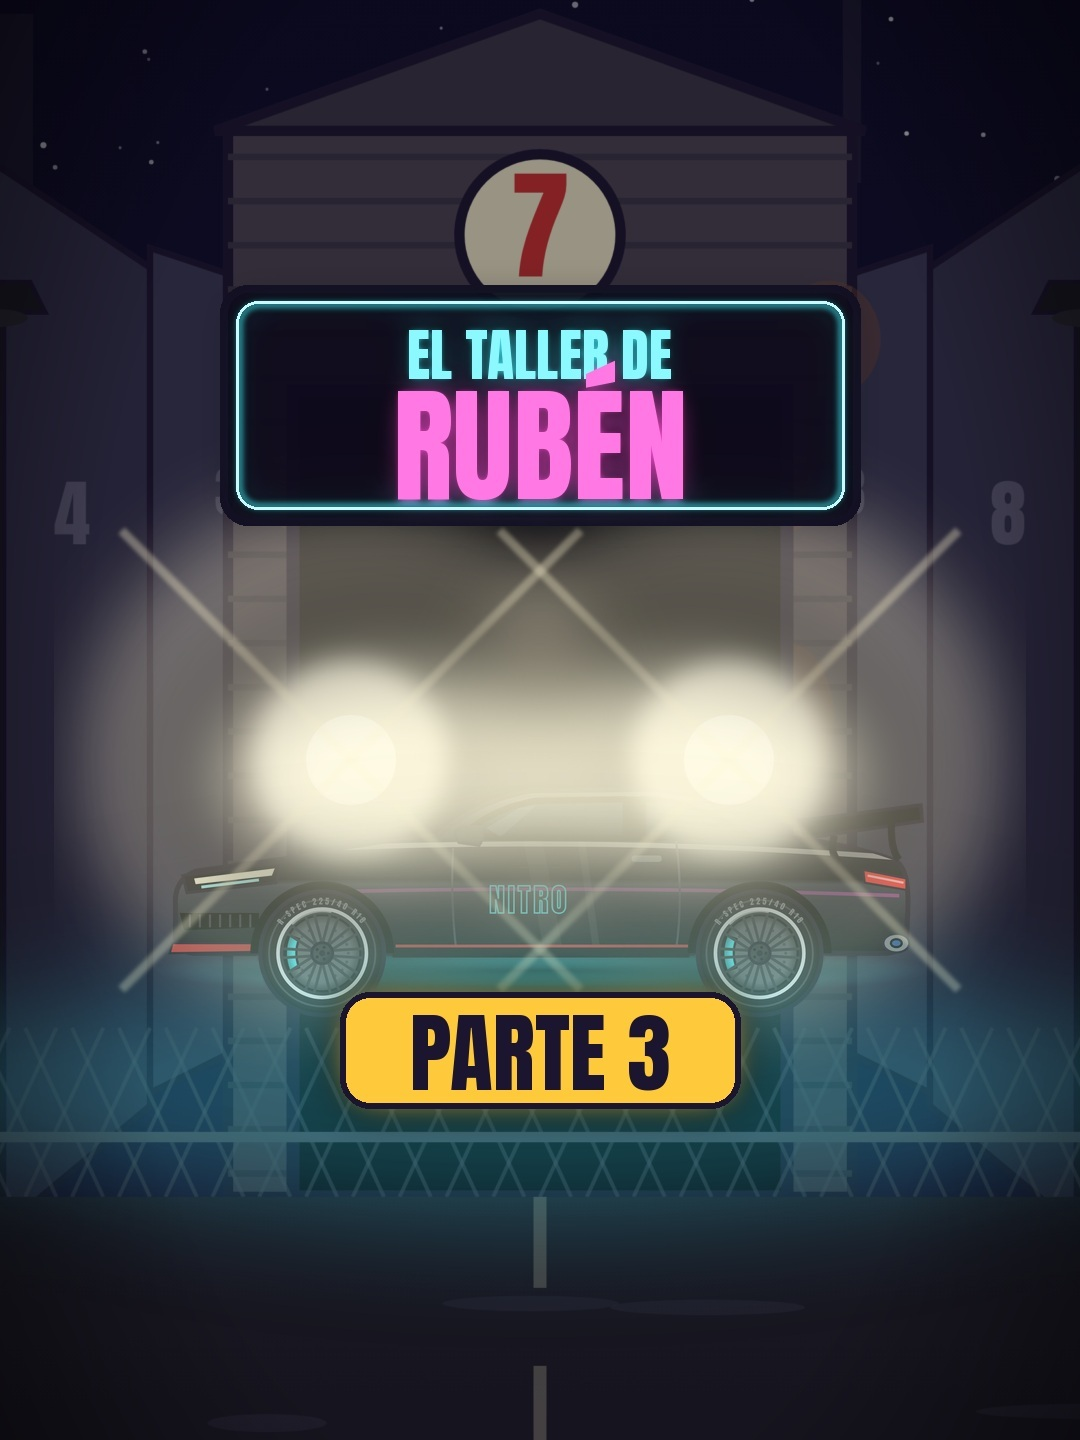
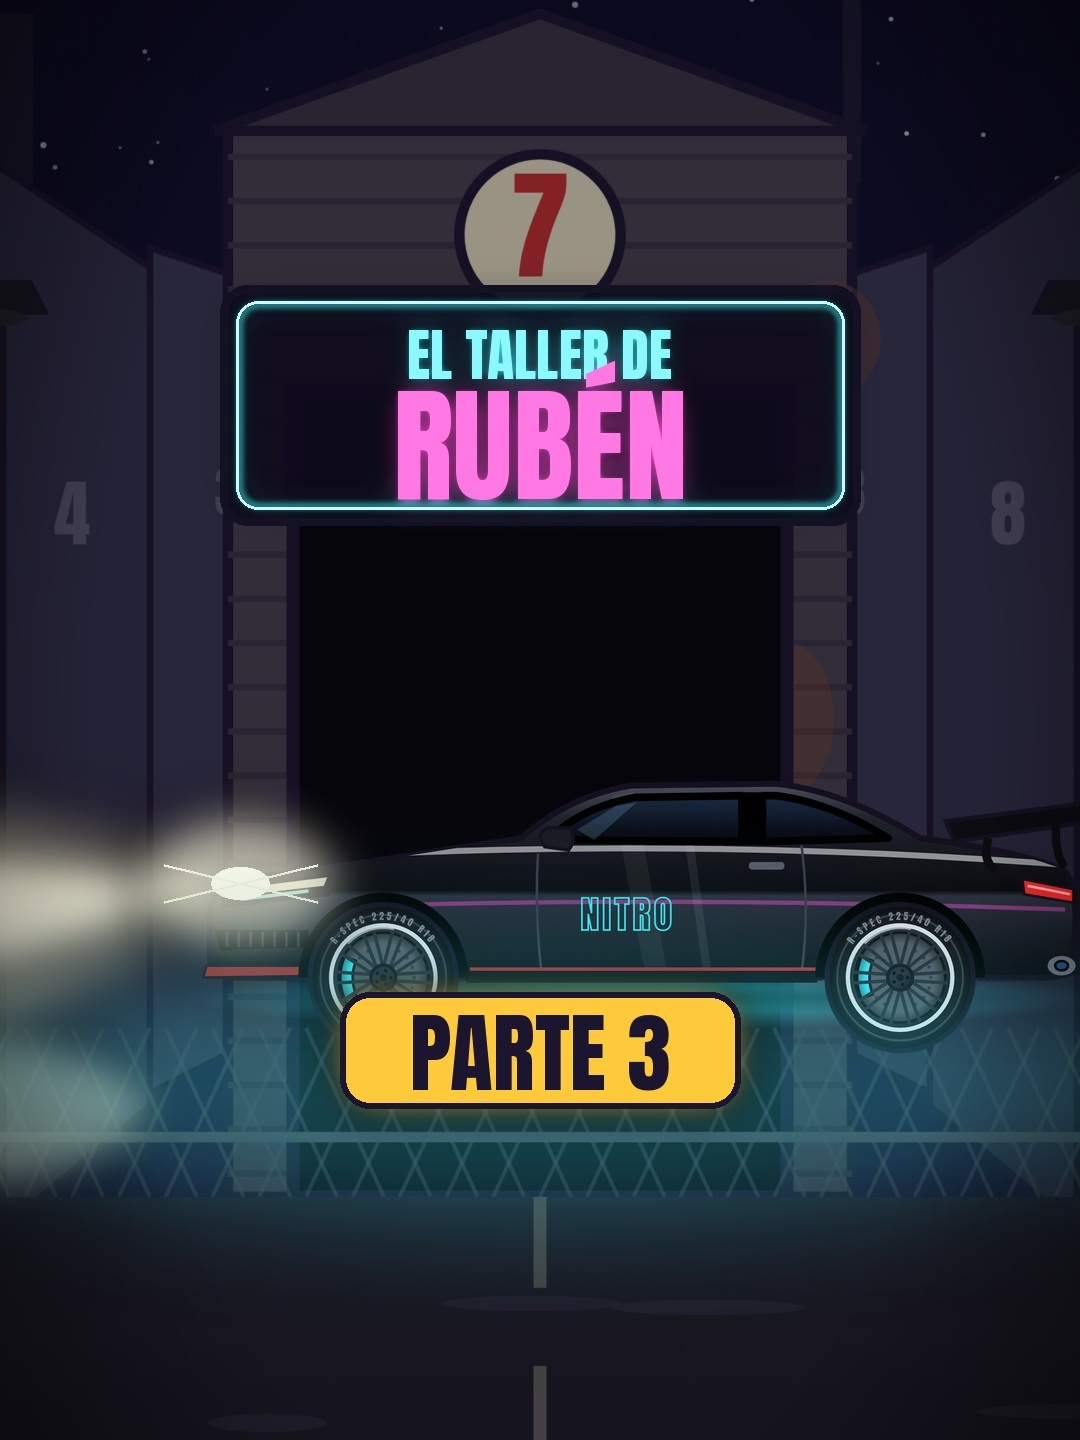
Faros de Nitro coherentes: el haz sale del morro del coche de perfil (luces.py)
Claude-Session: https://claude.ai/code/session_01NdJoArJvAFN6ncq433eaCm

Changed region(s): [[0.0, 0.3438, 1.0, 0.8438]]

diff --git a/taller-pov/ep3.py b/taller-pov/ep3.py
@@ -3,6 +3,7 @@ Uso: python3 ep3.py still 10 20 | python3 ep3.py scenes | python3 ep3.py mix | p
 import os, sys, math
 os.environ["GUION"] = "guion3"; os.environ["VOZDIR"] = "voz3"
 import render as R
+from luces import coche_faros
 from render import (Image, ImageDraw, ImageFilter, W, H, bg, put, scaled, text, panel, stamp, ficha, etiqueta, dust,
                     neon_flicker, mouth, dark, ease, clamp, popscale, euros, S, E, WT, YEL, RED, WHITE, OL,
                     CYAN, MAG, GRIS, F_UI, F_ANTON)
@@ -426,19 +427,15 @@ def sc_nitro(T):
     s0 = S("F18"); s19 = S("F19"); tf = WT("F19", "faros")
     c = bg("bg_poligono", T, s0, 1.35, 1.42, 8, .5, .95); dark(c, 100)
     rev = 5 * math.sin(T * 60) if T >= WT("F19", "ruge.") else 0
-    put(c, "coche_negro", 560 + rev, 1530, 1.0)
-    llamas(c, T, WT("F19", "ruge.") + .05, 560 + 470, 1615, 3, .22)
+    uf = ease(clamp((T - tf) / .2)) if T >= tf else 0
+    coche_faros(c, 700, 1230, .8, uf, rev=rev)          # morro a la izquierda: el faro sale del morro
+    llamas(c, T, WT("F19", "ruge.") + .05, 700 + 376, 1298, 3, .22, .8)
     nx, ny = 420, 900 + 3 * math.sin(T * 1.8)
     if T < s19 + .2:
         put(c, "nitro", nx, ny, .95); mouth(c, nx + 11, ny + 23, T, talk("F18", T), 22)
         if T >= WT("F18", "robó"): etiqueta(c, T, WT("F18", "robó"), "\"RUBÉN ME ROBÓ ALGO\"", 540, 420, RED, WHITE, 42)
         if T >= WT("F18", "cobro."): stamp(c, T, WT("F18", "cobro."), "ME LO COBRO", 540, 580, YEL, -6, 90)
     if T >= tf:   # faros de golpe
-        u = ease(clamp((T - tf) / .2))
-        put(c, "faros", 560, 1450, 1.2 * u + .01, alpha=u)
-        glare = Image.new("RGBA", (W, H), (0, 0, 0, 0)); gd = ImageDraw.Draw(glare)
-        for x in (360, 760): gd.ellipse((x - 260, 1260, x + 260, 1600), fill=(255, 250, 220, int(200 * u)))
-        c.alpha_composite(glare.filter(ImageFilter.GaussianBlur(50)))
         if T - tf < .15: tinte(c, (255, 255, 240), 200 * (1 - (T - tf) / .15))
         if T >= WT("F19", "apuntan"): stamp(c, T, WT("F19", "apuntan"), "OS APUNTAN", 540, 600, RED, -6, 100)
     return c
@@ -471,10 +468,8 @@ def _lado(name):
         A.alpha_composite(Image.new("RGBA", (W, H), (20, 40, 90, 60)))
     else:   # enfrentarse a Nitro ante los faros
         A = bg("bg_poligono", 0, 0, 1.35, 1.35, 1, .5, .95).convert("RGBA"); dark(A, 90)
-        put(A, "coche_negro", 790, 1480, .85); put(A, "faros", 790, 1420, 1.0)
-        gl = Image.new("RGBA", (W, H), (0, 0, 0, 0)); ImageDraw.Draw(gl).ellipse((500, 1250, 1080, 1600), fill=(255, 250, 220, 160))
-        A.alpha_composite(gl.filter(ImageFilter.GaussianBlur(50)))
-        put(A, "nitro", 820, 960, .7)
+        coche_faros(A, 600, 1480, .62, 1.0, flip=True, largo=600)   # morro a la derecha, el haz cruza su lado
+        put(A, "nitro", 860, 1000, .62)
         A.alpha_composite(Image.new("RGBA", (W, H), (60, 10, 50, 60)))
     _LC[name] = A
     return A

diff --git a/taller-pov/luces.py b/taller-pov/luces.py
@@ -1,0 +1,34 @@
+"""Coche negro de Nitro de perfil con el faro encendido saliendo del morro (no faros frontales encima de un coche de lado)."""
+import math
+from PIL import Image, ImageDraw, ImageFilter
+import render as R
+
+W, H = R.W, R.H
+FARO = (-470, 75)    # posición del faro respecto al centro del coche (escala 1, morro a la izquierda)
+
+def coche_faros(c, x, y, s=1.0, u=1.0, flip=False, largo=900, rev=0.0):
+    """Dibuja coche_negro centrado en (x, y) con escala s; u = intensidad del faro (0 apagado, 1 encendido).
+    flip=True pone el morro a la derecha. El haz sale del faro hacia delante y hacia el suelo."""
+    im = R.scaled("coche_negro", s)
+    if flip: im = im.transpose(Image.FLIP_LEFT_RIGHT)
+    c.alpha_composite(im, (int(x + rev - im.width / 2), int(y - im.height / 2)))
+    if u <= .01: return
+    dx = -1 if not flip else 1
+    hx, hy = x + rev + dx * abs(FARO[0]) * s, y + FARO[1] * s
+    beam = Image.new("RGBA", (W, H), (0, 0, 0, 0)); bd = ImageDraw.Draw(beam)
+    tip = hx + dx * largo
+    # cono exterior amplio + cono interior intenso + charco de luz en el suelo
+    bd.polygon([(hx, hy - 20 * s), (hx, hy + 24 * s), (tip, hy + 380 * s + 160), (tip, hy - 160 * s - 80)], fill=(255, 244, 205, int(150 * u)))
+    c.alpha_composite(beam.filter(ImageFilter.GaussianBlur(34)))
+    beam = Image.new("RGBA", (W, H), (0, 0, 0, 0)); bd = ImageDraw.Draw(beam)
+    bd.polygon([(hx, hy - 10 * s), (hx, hy + 12 * s), (hx + dx * largo * .75, hy + 170 * s + 60), (hx + dx * largo * .75, hy - 60 * s - 20)], fill=(255, 252, 230, int(190 * u)))
+    lo, hi = sorted((hx + dx * 80, tip))
+    bd.ellipse((lo, hy + 150 * s, hi, hy + 300 * s + 70), fill=(255, 246, 210, int(120 * u)))
+    c.alpha_composite(beam.filter(ImageFilter.GaussianBlur(22)))
+    fl = Image.new("RGBA", (W, H), (0, 0, 0, 0)); fd = ImageDraw.Draw(fl)
+    r1 = 130 * s; fd.ellipse((hx - r1, hy - r1 * .7, hx + r1, hy + r1 * .7), fill=(255, 250, 225, int(170 * u)))
+    c.alpha_composite(fl.filter(ImageFilter.GaussianBlur(26)))
+    d = ImageDraw.Draw(c); r2 = 34 * s
+    d.ellipse((hx - r2, hy - r2 * .55, hx + r2, hy + r2 * .55), fill=(255, 255, 240, int(255 * u)))
+    for k in (-1, 1):   # destellos en estrella
+        d.line((hx - 90 * s, hy + k * 22 * s, hx + 90 * s, hy - k * 22 * s), fill=(255, 255, 235, int(160 * u)), width=max(2, int(4 * s)))

diff --git a/taller-pov/story_p3.py b/taller-pov/story_p3.py
@@ -2,6 +2,7 @@
 import os, sys, math
 import ep3                      # motor con piezas del Ep.3 (candado, confeti, lados del final, llave)
 import story_video as SV
+from luces import coche_faros
 import portada as P
 R = ep3.R
 from render import (Image, ImageDraw, ImageFilter, W, H, bg, put, text, stamp, dark, ease, clamp, popscale,
@@ -78,15 +79,10 @@ def sc_solos(T):
     s0 = SC_T[3]; tf = T_SOLOS + .45
     c = bg("bg_poligono", T, s0, 1.35, 1.42, 2.5, .5, .95); dark(c, 110)
     rev = 5 * math.sin(T * 60) if T >= tf else 0
-    put(c, "coche_negro", 560 + rev, 1500, 1.0)
-    put(c, "nitro", 420, 880, .9)
-    if T >= tf:
-        u = ease(clamp((T - tf) / .2))
-        put(c, "faros", 560, 1420, 1.2 * u + .01, alpha=u)
-        glare = blank(); gd = ImageDraw.Draw(glare)
-        for x in (360, 760): gd.ellipse((x - 260, 1230, x + 260, 1570), fill=(255, 250, 220, int(200 * u)))
-        c.alpha_composite(glare.filter(ImageFilter.GaussianBlur(50)))
-        ep3.llamas(c, T, tf + .1, 1030, 1585, 3, .22)
+    put(c, "nitro", 330, 860, .8)
+    u = ease(clamp((T - tf) / .2)) if T >= tf else 0
+    coche_faros(c, 700, 1260, .78, u, rev=rev)
+    if T >= tf: ep3.llamas(c, T, tf + .1, 700 + 367, 1326, 3, .22, .8)
     stamp(c, T, T_SOLOS + .5, "NO ESTÁBAMOS SOLOS", 540, 480, RED, -6, 86)
     return c
 

diff --git a/taller-pov/stories_eng.py b/taller-pov/stories_eng.py
@@ -1,6 +1,7 @@
 """3 stories de engagement (sentimiento del público). Genera versión limpia (para poner el sticker en la app) y vista previa."""
 import os, ep3
 import portada as P
+from luces import coche_faros
 R = ep3.R
 from render import Image, ImageDraw, ImageFilter, W, H, bg, put, text, dark, YEL, RED, WHITE, OL, CYAN, F_UI, F_ANTON
 
@@ -39,11 +40,8 @@ def mock_question(c, y):
 
 def story1():   # encuesta: Nitro villano o víctima
     c = base("bg_poligono", .5, .95, 1.35, 90)
-    put(c, "coche_negro", 560, 1520, 1.0); put(c, "faros", 560, 1440, 1.2)
-    gl = Image.new("RGBA", (W, H), (0, 0, 0, 0)); gd = ImageDraw.Draw(gl)
-    for x in (360, 760): gd.ellipse((x - 260, 1280, x + 260, 1620), fill=(255, 250, 220, 170))
-    c.alpha_composite(gl.filter(ImageFilter.GaussianBlur(50)))
-    put(c, "nitro", 830, 1250, .62)
+    put(c, "nitro", 830, 1230, .6)
+    coche_faros(c, 680, 1530, .8, 1.0)
     titulo(c); pregunta(c, "NITRO:", "¿VILLANO O VÍCTIMA?")
     return c, lambda c: mock_poll(c, 800, "VILLANO", "VÍCTIMA")
 

diff --git a/taller-pov/portada_mix.py b/taller-pov/portada_mix.py
@@ -2,6 +2,7 @@
 import os, math
 import ep3
 import portada as P
+from luces import coche_faros
 r = ep3.R
 from render import Image, ImageDraw, ImageFilter, W, H, bg, put, dark, scaled, CYAN, MAG
 
@@ -31,11 +32,7 @@ def centro2(c):   # Parte 2: la persiana bajando delante de Nitro
 
 def centro3(c):   # Parte 3: los faros de Nitro en el polígono, delante de la Nave 7
     c.alpha_composite(bg("bg_poligono", 0, 0, 1.3, 1.3, 1, .5, .62)); dark(c, 90)
-    put(c, "coche_negro", 540, 1060, .72)
-    put(c, "faros", 540, 1000, .9)
-    gl = Image.new("RGBA", (W, H), (0, 0, 0, 0)); gd = ImageDraw.Draw(gl)
-    for x in (390, 690): gd.ellipse((x - 200, 880, x + 200, 1150), fill=(255, 250, 220, 190))
-    c.alpha_composite(gl.filter(ImageFilter.GaussianBlur(45)))
+    coche_faros(c, 640, 1060, .85, 1.0, largo=760)
     glow(c, [((-100, 1150, 1180, 1500), CYAN + (70,))])
 
 def portada_mix(n, centro, out):
